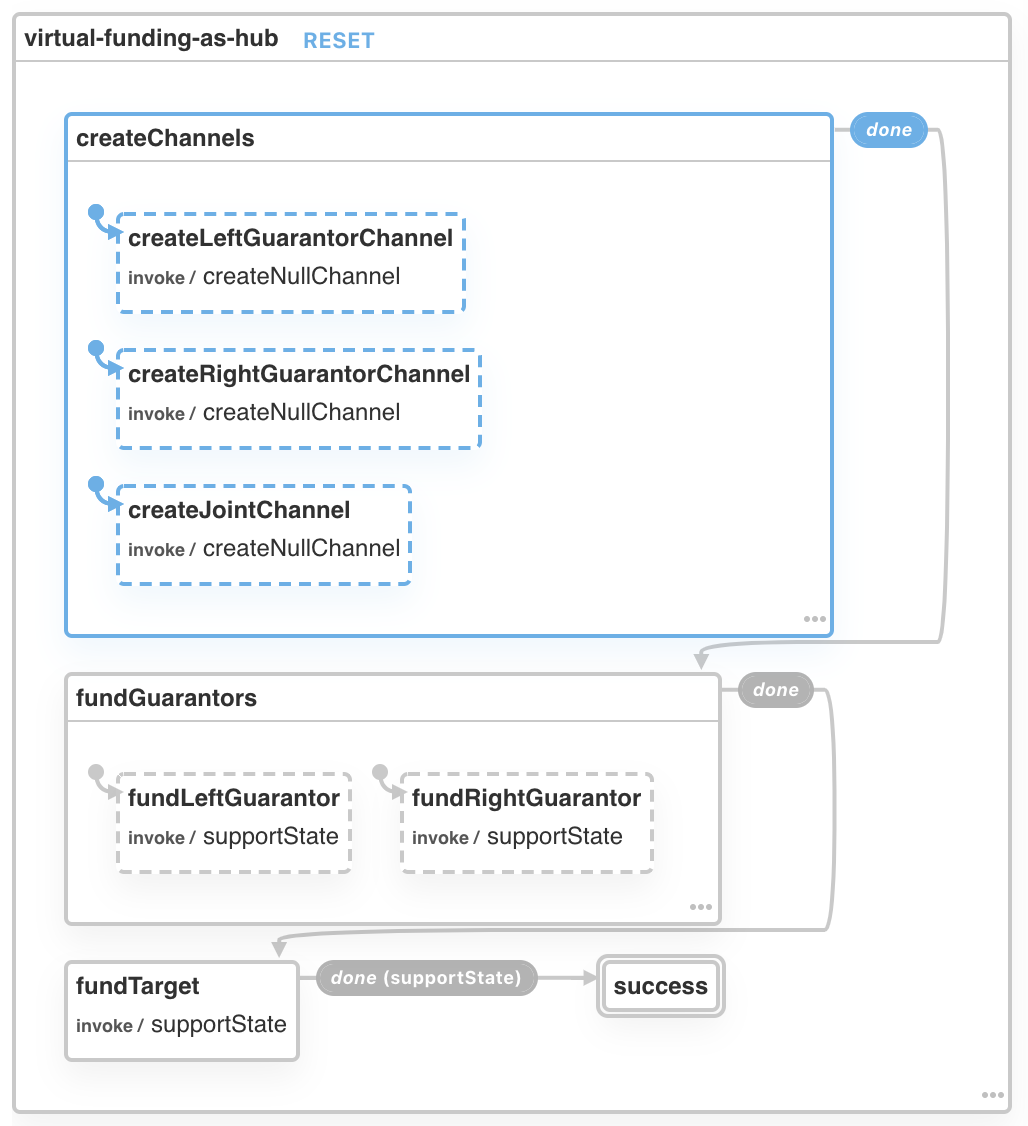
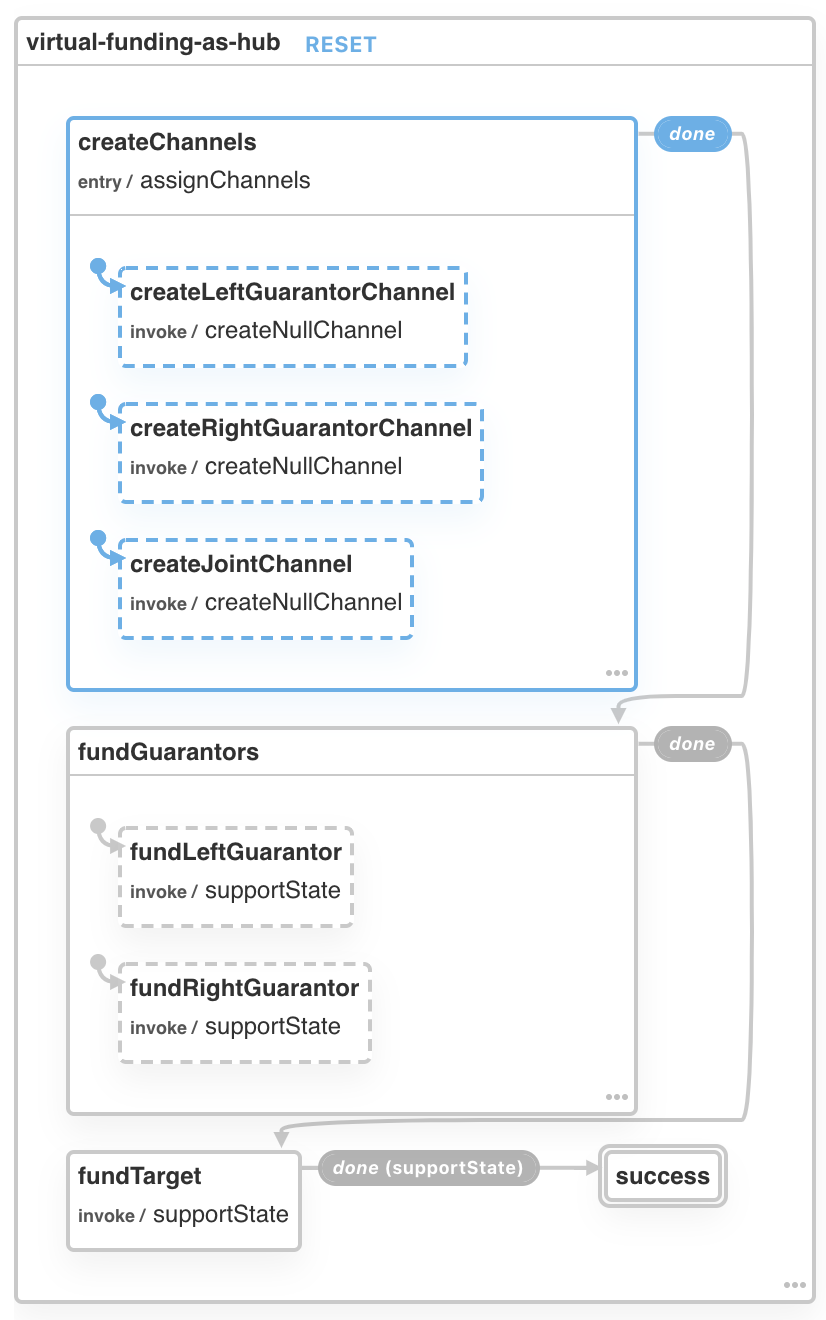
Add assignChannels action to virtual-hub protocol

Changed region(s): [[0.0, 0.0, 0.9383, 0.9947], [0.9383, 0.0, 0.9988, 0.9947], [0.908, 0.6217, 0.9383, 0.8082]]

diff --git a/src/protocols/virtual-fund-as-hub/protocol.ts b/src/protocols/virtual-fund-as-hub/protocol.ts
@@ -1,4 +1,5 @@
-import { Balance, Channel } from '../../';
+import { assign } from 'xstate';
+import { Balance, Channel, store } from '../../';
 import { saveConfig } from '../../utils';
 
 const PROTOCOL = 'virtual-funding-as-hub';
@@ -13,14 +14,51 @@ the args here.
 */
 export interface Init {
   balances: Balance[];
-  jointChannel: Channel;
   targetChannelId: string;
   leftLedgerId: string;
-  leftGuarantorChannel: Channel;
   rightLedgerId: string;
-  rightGuarantorChannel: Channel;
 }
 
+type ChannelsKnown = Init & {
+  jointChannel: Channel;
+  leftGuarantorChannel: Channel;
+  rightGuarantorChannel: Channel;
+};
+
+export const assignChannels = assign(
+  (init: Init): ChannelsKnown => {
+    const { leftLedgerId, rightLedgerId, targetChannelId } = init;
+    const { channel: leftLedgerChannel } = store.getLatestState(leftLedgerId);
+    const { channel: rightLedgerChannel } = store.getLatestState(rightLedgerId);
+
+    const jointParticipants = [
+      ...leftLedgerChannel.participants,
+      rightLedgerChannel.participants[1],
+    ];
+    const jointChannel: Channel = {
+      participants: jointParticipants,
+      channelNonce: store.getNextNonce(jointParticipants),
+      chainId: 'TODO',
+    };
+
+    const leftGuarantorChannel: Channel = {
+      ...leftLedgerChannel,
+      channelNonce: store.getNextNonce(leftLedgerChannel.participants),
+    };
+
+    const rightGuarantorChannel: Channel = {
+      ...rightLedgerChannel,
+      channelNonce: store.getNextNonce(rightLedgerChannel.participants),
+    };
+
+    return {
+      ...init,
+      jointChannel,
+      leftGuarantorChannel,
+      rightGuarantorChannel,
+    };
+  }
+);
 const createJointChannel = {
   invoke: {
     src: 'createNullChannel',
@@ -43,6 +81,7 @@ const createRightGuarantorChannel = {
 };
 
 const createChannels = {
+  entry: 'assignChannels',
   type: 'parallel',
   states: {
     createLeftGuarantorChannel,

diff --git a/src/protocols/virtual-fund-as-hub/protocol.config.js b/src/protocols/virtual-fund-as-hub/protocol.config.js
@@ -3,6 +3,7 @@ const config = {
   initial: 'createChannels',
   states: {
     createChannels: {
+      entry: 'assignChannels',
       type: 'parallel',
       states: {
         createLeftGuarantorChannel: {
